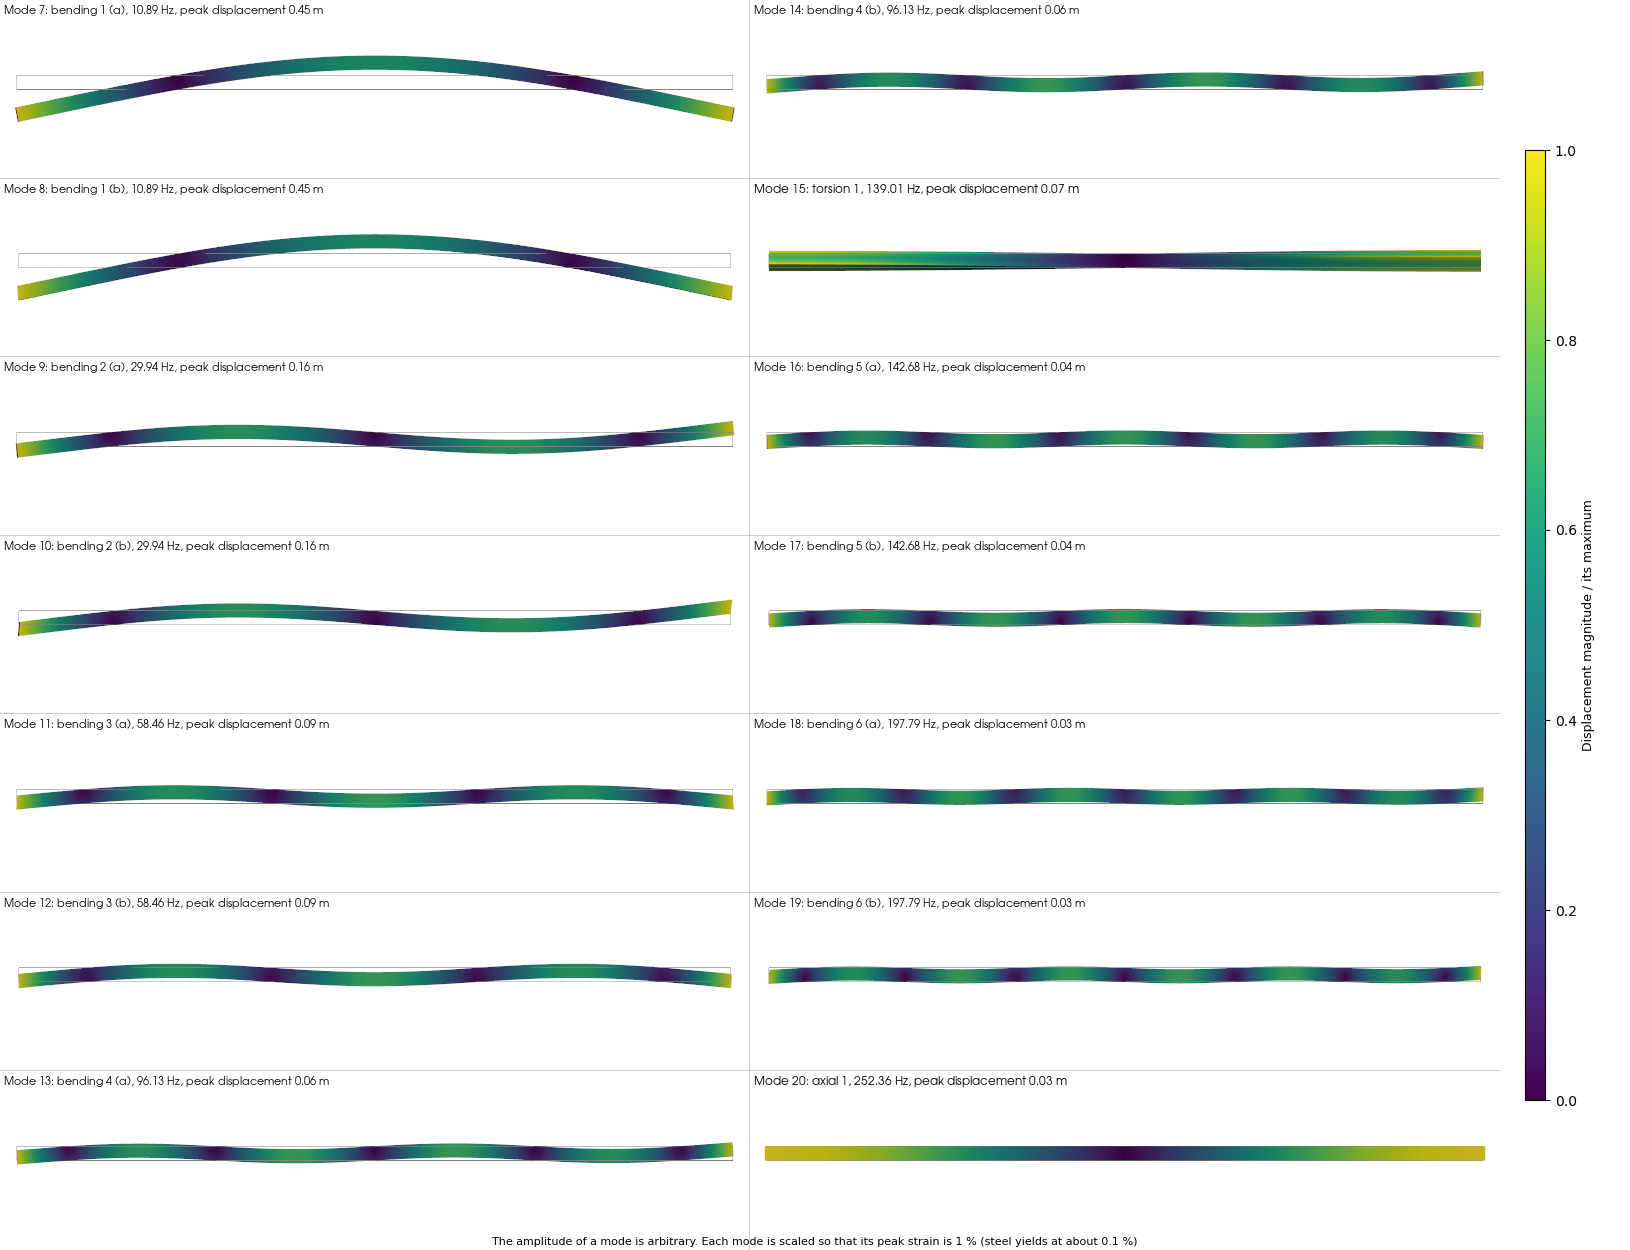
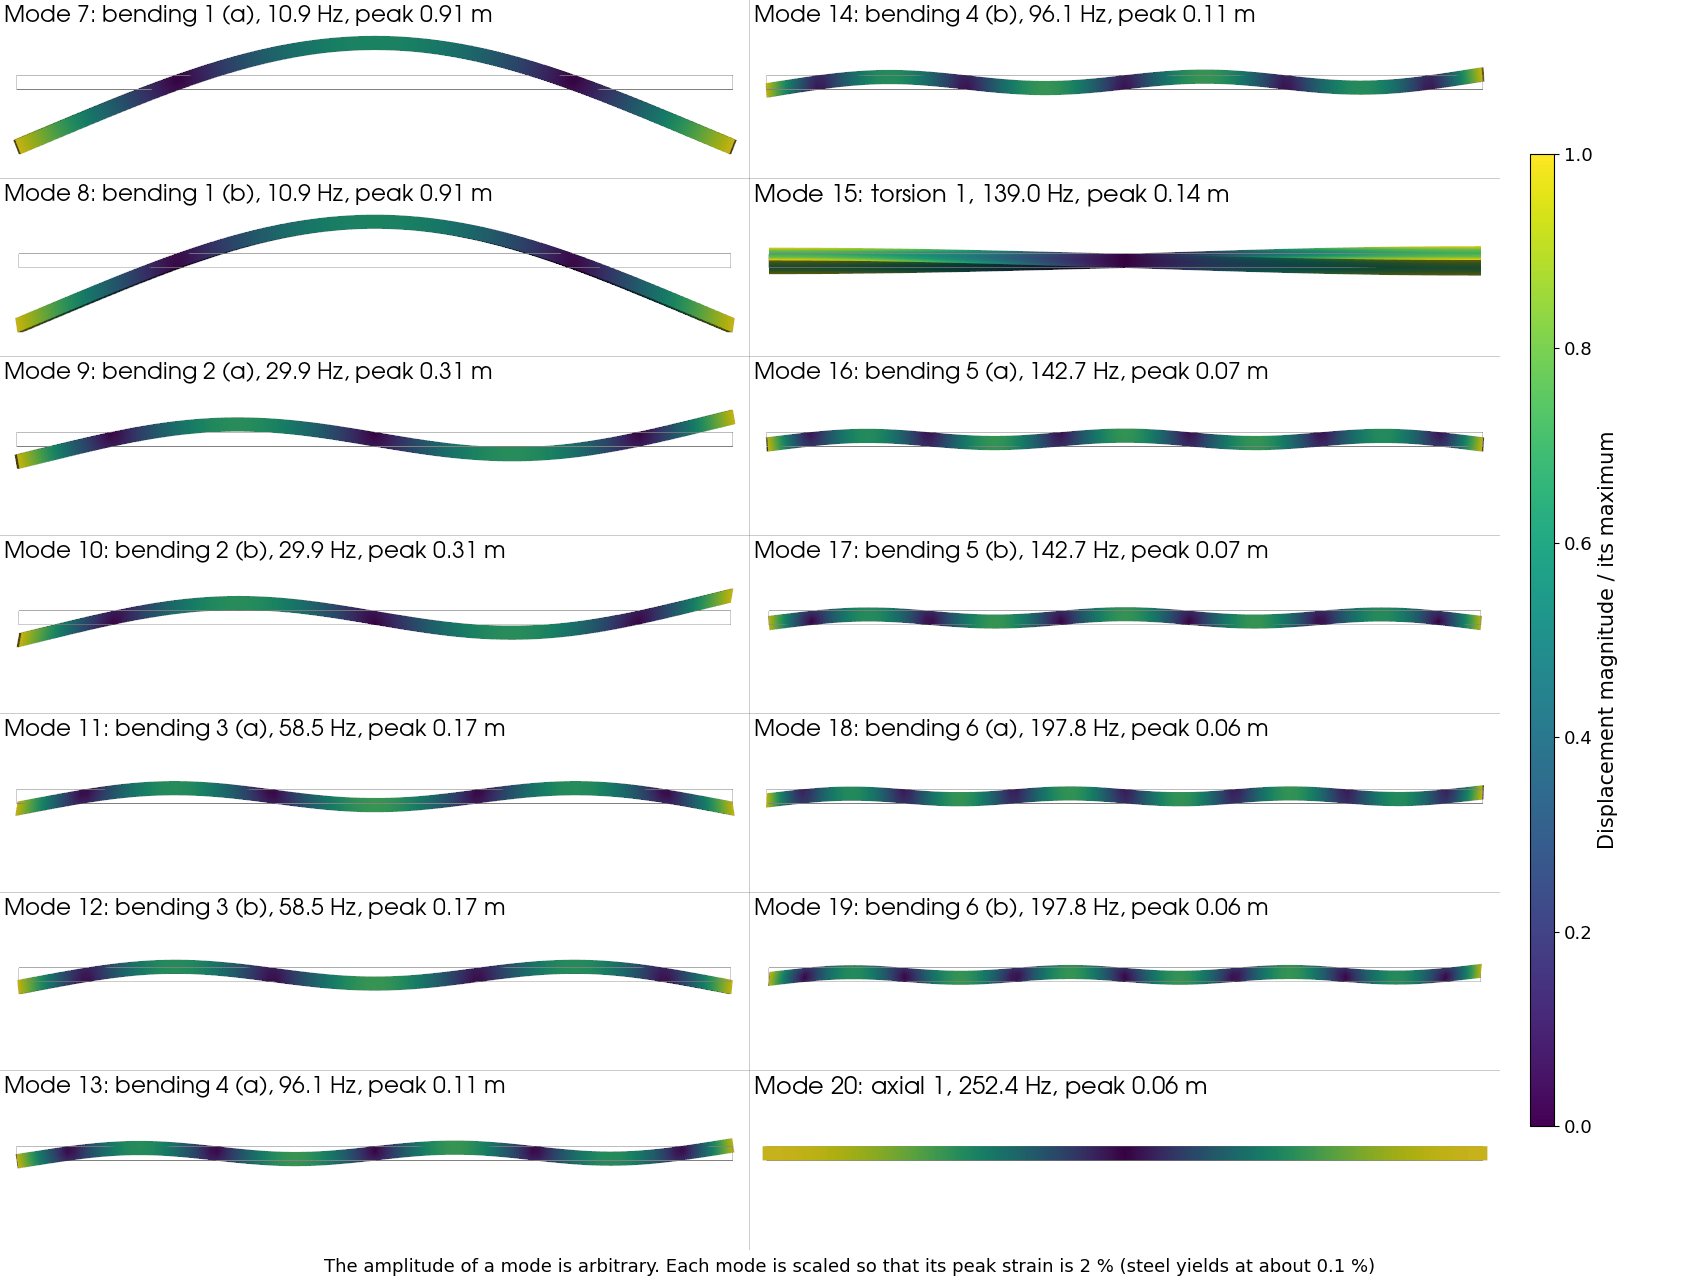
Increase mode image amplitude to 2 percent peak strain and enlarge figure fonts

Changed region(s): [[0.0, 0.0, 0.9816, 0.936], [0.184, 0.9672, 0.7975, 0.9984], [0.4294, 0.4056, 0.7362, 0.4368]]

diff --git a/src/docs/sphinx/advancedExamples/validationStudies/solidMechanics/FreeFreeBeamModes/make_beam_assets.py b/src/docs/sphinx/advancedExamples/validationStudies/solidMechanics/FreeFreeBeamModes/make_beam_assets.py
@@ -98,18 +98,18 @@ def main():
     pl.camera.focal_point = (0.5 * length, 0.5 * side, 0.0)
     pl.camera.position = (0.5 * length, 0.5 * side, 30.0)
     pl.camera.parallel_scale = 1.4
-    pl.add_text('Side view of the mesh: 100 x 4 x 4 hexahedra, 10 m x 0.2 m x 0.2 m', font_size=9)
+    pl.add_text('Side view of the mesh: 100 x 4 x 4 hexahedra, 10 m x 0.2 m x 0.2 m', font_size=15)
     pl.subplot(1, 0)
     pl.add_mesh(grid, color='lightsteelblue', show_edges=True, line_width=1.0)
     pl.camera.parallel_projection = False
     pl.camera.focal_point = (0.9, 0.1, 0.1)
     pl.camera.position = (-0.9, -0.8, 0.7)
     pl.camera.view_angle = 40.0
-    pl.add_text('End of the beam: four hexahedra across the thickness', font_size=9)
+    pl.add_text('End of the beam: four hexahedra across the thickness', font_size=15)
     pl.screenshot(args.outputDir + '/FreeFreeBeamMesh.png')
 
     nrows = 7
-    peak_display_strain = 0.01
+    peak_display_strain = 0.02
     pl = pv.Plotter(shape=(nrows, 2), off_screen=True, window_size=(1500, 1250))
     for k in range(14):
         m = k + 7
@@ -138,8 +138,8 @@ def main():
         pl.camera.focal_point = (0.5 * length, 0.0, 0.1)
         pl.camera.position = (0.5 * length, 0.0, 30.0)
         pl.camera.parallel_scale = 1.25
-        pl.add_text(f'Mode {m}: {labels[k]}, {frequencies[6 + k]:.2f} Hz, peak displacement {scale * np.max(magnitude_raw):.2f} m',
-                    font_size=8, position='upper_left')
+        pl.add_text(f'Mode {m}: {labels[k]}, {frequencies[6 + k]:.1f} Hz, peak {scale * np.max(magnitude_raw):.2f} m',
+                    font_size=15, position='upper_left')
     gallery = pl.screenshot(return_img=True)
 
     # One colorbar for all the panels: the displacement of each mode is normalized by its maximum
@@ -148,14 +148,15 @@ def main():
     import matplotlib.pyplot as plt
     height, width = gallery.shape[:2]
     dpi = 100
-    fig = plt.figure(figsize=((width + 130) / dpi, height / dpi), dpi=dpi)
-    ax = fig.add_axes([0.0, 0.0, width / (width + 130), 1.0])
+    fig = plt.figure(figsize=((width + 200) / dpi, (height + 30) / dpi), dpi=dpi)
+    ax = fig.add_axes([0.0, 30.0 / (height + 30), width / (width + 200), height / (height + 30)])
     ax.imshow(gallery)
     ax.axis('off')
-    cax = fig.add_axes([(width + 25) / (width + 130), 0.12, 20.0 / (width + 130), 0.76])
+    cax = fig.add_axes([(width + 30) / (width + 200), 0.12, 24.0 / (width + 200), 0.76])
     fig.colorbar(matplotlib.cm.ScalarMappable(norm=matplotlib.colors.Normalize(0.0, 1.0), cmap='viridis'), cax=cax)
-    cax.set_ylabel('Displacement magnitude / its maximum', fontsize=9)
-    fig.text(0.5, 0.004, 'The amplitude of a mode is arbitrary. Each mode is scaled so that its peak strain is 1 % (steel yields at about 0.1 %)', ha='center', fontsize=8)
+    cax.set_ylabel('Displacement magnitude / its maximum', fontsize=15)
+    cax.tick_params(labelsize=13)
+    fig.text(0.5, 0.006, 'The amplitude of a mode is arbitrary. Each mode is scaled so that its peak strain is 2 % (steel yields at about 0.1 %)', ha='center', fontsize=13)
     fig.savefig(args.outputDir + '/FreeFreeBeamModes.png', dpi=dpi)
 
 

diff --git a/src/docs/sphinx/advancedExamples/validationStudies/solidMechanics/FreeFreeBeamModes/Example.rst b/src/docs/sphinx/advancedExamples/validationStudies/solidMechanics/FreeFreeBeamModes/Example.rst
@@ -166,8 +166,8 @@ The six rigid-body modes are zero up to rounding errors: their frequencies are b
 The next fourteen modes are the elastic modes.
 The images below show them.
 The amplitude of a vibration mode is arbitrary, because the modes are normalized with the mass.
-Each image is therefore scaled so that the peak strain of the mode is 1 %.
-This is ten times the yield strain of steel, so a real vibration is much smaller.
+Each image is therefore scaled so that the peak strain of the mode is 2 %.
+This is twenty times the yield strain of steel, so a real vibration is much smaller.
 The peak displacement that results is given in each title.
 The grey rectangle is the undeformed beam.
 The color is the displacement magnitude divided by its maximum for the mode, with one colorbar for all the images.
